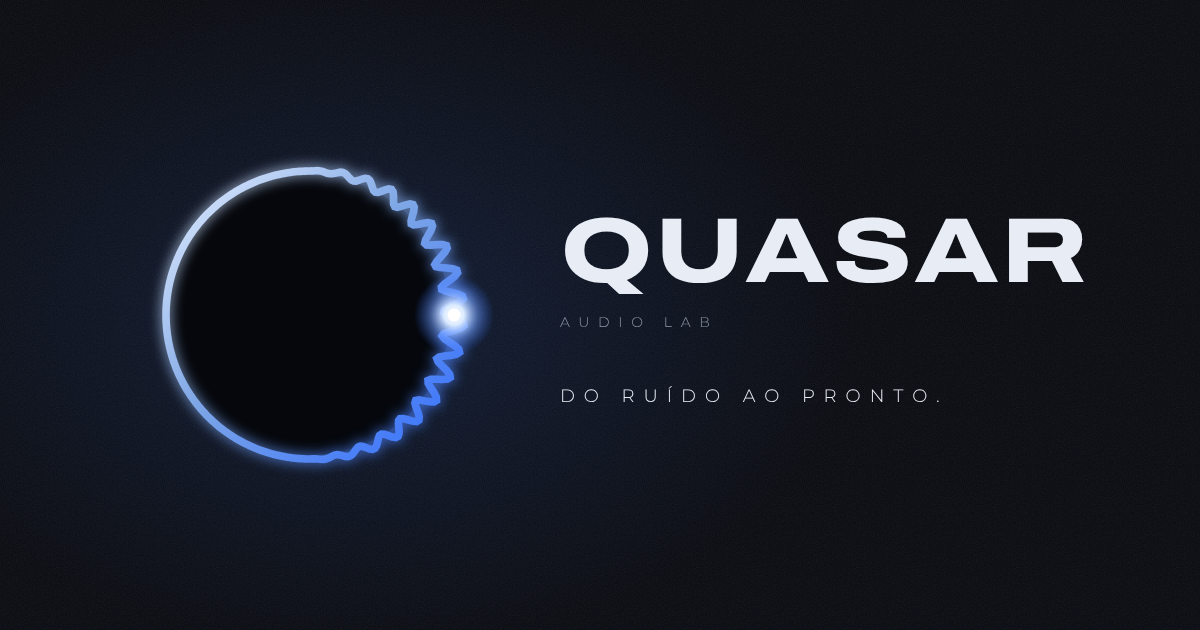
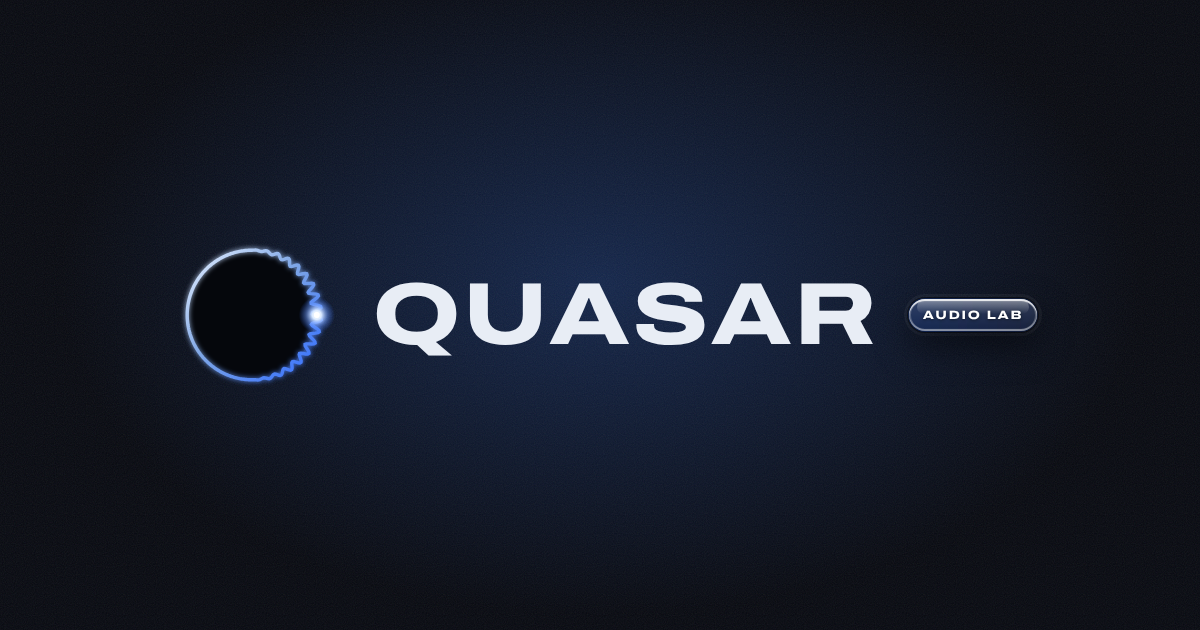
Quasar Audio Lab: marca final, selo de vidro e testes
Selo AUDIO LAB de vidro de borda grossa, menor, imune às regras antigas de
.brand > span (cobria o botão de fechar o menu no celular). Cartão de
compartilhamento com a marca final. Documentação atualizada.

Claude-Session: https://claude.ai/code/session_019LNWP3nDrWFdCsUiU72wjj

Changed region(s): [[0.1233, 0.181, 0.925, 0.754]]

diff --git a/products/nossom/app/styles/estudio-azul.css b/products/nossom/app/styles/estudio-azul.css
@@ -508,12 +508,14 @@
 .brand .coroa {
   flex: none;
 }
-.brand > .brand-nome {
+.brand > span.brand-nome,
+.studio-sidebar .brand > span.brand-nome,
+.ns-nav .brand > span.brand-nome {
   font-family: 'Archivo Variable', 'Archivo', var(--font-sans, system-ui), sans-serif !important;
   font-stretch: 125%;
   font-weight: 800 !important;
   letter-spacing: 0.04em !important;
-  font-size: 15px;
+  font-size: 15px !important;
   text-transform: uppercase;
 }
 .assistant-marca .coroa-luz {
@@ -521,19 +523,23 @@
   height: auto;
   filter: drop-shadow(0 0 30px rgb(80 140 255 / 30%));
 }
-/* AUDIO LAB: selo de vidro de borda grossa (Liquid Glass) */
-.brand > .brand-selo {
+/* AUDIO LAB: selo de vidro de borda grossa (Liquid Glass). Mais específico que as regras antigas de `.brand > span`. */
+.brand > span.brand-selo,
+.studio-sidebar .brand > span.brand-selo,
+.ns-nav .brand > span.brand-selo {
   display: inline-flex;
   align-items: center;
-  height: 16px;
-  padding: 0 7px;
+  height: 16px !important;
+  padding: 0 7px !important;
   margin-left: 1px;
+  line-height: 1 !important;
+  flex: none;
   border-radius: 999px;
   font-family: 'Archivo Variable', 'Archivo', system-ui, sans-serif;
   font-stretch: 125%;
   font-weight: 700;
-  font-size: 6.5px;
-  letter-spacing: 0.14em;
+  font-size: 6.5px !important;
+  letter-spacing: 0.14em !important;
   white-space: nowrap;
   color: #fff;
   background: linear-gradient(180deg, rgb(255 255 255 / 16%), rgb(255 255 255 / 4%));
@@ -547,8 +553,8 @@
   backdrop-filter: blur(8px) saturate(200%) brightness(1.2);
   text-shadow: 0 1px 2px rgb(0 0 0 / 45%);
 }
-.studio-shell[data-theme='light'] .brand > .brand-selo,
-.ns-site:not(.home-p2) .brand > .brand-selo {
+.studio-shell[data-theme='light'] .brand > span.brand-selo,
+.ns-site:not(.home-p2) .brand > span.brand-selo {
   color: #1d1d1f;
   text-shadow: none;
   background: linear-gradient(180deg, #fff, #eef1f6);

diff --git a/docs/roadmap.md b/docs/roadmap.md
@@ -359,6 +359,13 @@ Atualizado em 01/11/2026. Legenda: ✅ entregue · 🟡 parcial · ⬜ não inic
   no menu do celular; sai "Conhecer o projeto" e "Em desenvolvimento"). No estúdio, sol/lua no topo troca claro e
   escuro no computador e no celular ("Tema do aparelho" segue em Conta); no menu do celular cada app mostra o nome. A
   família tira o Revela (não lançado) e ganha o Relay.
+- 🟡 Quasar Audio Lab (01/11/2026, pedido do titular): o NOSSOM passa a se chamar Quasar Audio Lab ("é subproduto,
+  todos são Absolute ZRO"). Marca: a Coroa sonora (eclipse fino em azul-aço, a borda vibra como onda do lado da luz,
+  clarão no ponto), QUASAR na letra expandida (Archivo Expanded ExtraBold) e AUDIO LAB num selo de vidro de borda
+  grossa. Ícones, cartão de compartilhamento, título, manifesto e textos trocados; no HUB, o nome no catálogo (0051) e
+  o ícone. Identificadores internos seguem `nossom` (produto, OIDC, schema, banco do aparelho, instaladores), para
+  nenhuma conta, cota ou projeto se perder. Segue fechado ao público (0049). Falta: o endereço
+  `quasar.absolutezro.com` (precisa da autorização do titular para o domínio).
 - 🟡 NOSSOM · estúdio Comando + Console (01/11/2026, aprovado pelo titular): azul profundo no escuro (sai o
   grafite), vidro nas superfícies e uma cor por passo (Tratar em vidro branco, Ajustar violeta, Criar âmbar, Entregar
   rosa). Na ferramenta: trilho fino de ícones, a onda na largura toda com medidores de LED do volume e do pico medidos

diff --git a/docs/validation.md b/docs/validation.md
@@ -4168,6 +4168,16 @@ SOBEDESCE de computador, que disparam os instaladores).
 - Endereço do Carro em carro.absolutezro.com nos menus da família (Revela e NOSSOM) e no teste de regras do
   `apps/hub-desktop` (6/6).
 
+## Quasar Audio Lab · novo nome e marca (01/11/2026)
+
+- `products/nossom`: `tsc` OK, `format:check` OK, `npm test` 126/126, `npm run build` OK, e2e completo 69 passaram,
+  0 falharam (26 pulados por `RELEASE=closed`). Testes ajustados ao nome novo (menu, planos, Z, atualizações, ícone).
+- Corrigido no caminho: o selo AUDIO LAB herdava regras antigas de `.brand > span` e cobria o botão de fechar o menu
+  no celular (`workspace` › menu do celular).
+- HUB: `npm run typecheck` OK, `npm run lint` OK, `npm test` 561/561 (64 arquivos), com a migração 0051 aplicada no
+  banco de teste; `nao-lancados` confere que "Quasar" também não vaza para quem não é admin.
+- Telas reais conferidas: topo da home (coroa + QUASAR + selo), Início do estúdio (Coroa em luz) a 1440 e 390.
+
 ## NOSSOM · estúdio Comando + Console (01/11/2026)
 
 - `products/nossom`: `tsc` OK, `format:check` OK, `npm test` OK, `npm run build` OK; e2e completo 68 passaram,
